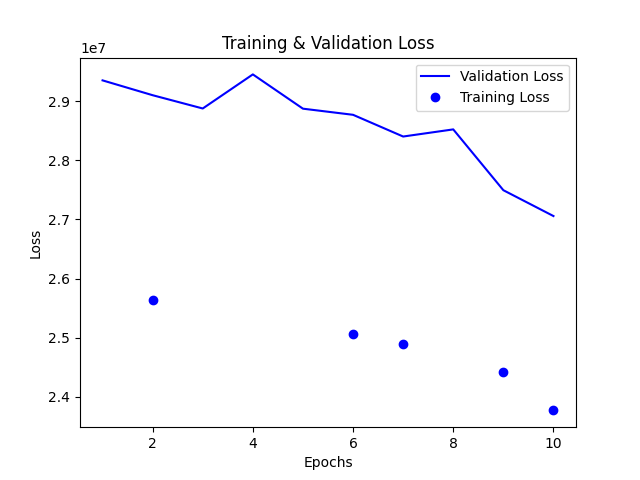
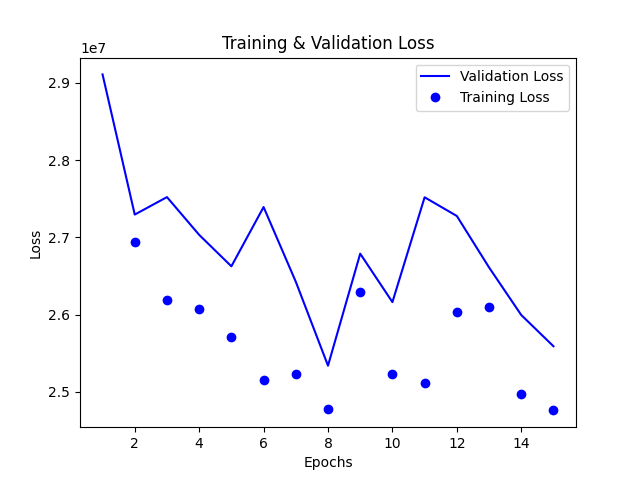
grid search for epochs max

diff --git a/brahms_restore_ml/drnn/drnn.py b/brahms_restore_ml/drnn/drnn.py
@@ -167,9 +167,13 @@ def evaluate_source_sep(x_train_files, y1_train_files, y2_train_files,
     #                               show_shapes=True)
  
     pc_run_str = '' if pc_run else '_noPC'
-    if pc_run and (grid_search_iter is None):
+    # if pc_run and (grid_search_iter is None):
+    if pc_run:  # NEW - TRY TO WRITE MODELS IN SMALL GRID SEARCHES
         #  Can't for imperative models
         model.save(recent_model_path)
+
+        if (grid_search_iter is not None) and recent_model_path.endswith(str(combos)):
+            pc_run_str += ('_' + str(grid_search_iter) + 'of' + str(combos))
 
         # print('History Dictionary Keys:', hist.history.keys())
         # 'val_loss', 'loss'
@@ -193,7 +197,7 @@ def evaluate_source_sep(x_train_files, y1_train_files, y2_train_files,
         return model
 
 
-def get_hp_configs(bare_config_path, pc_run=False, use_bv=False):
+def get_hp_configs(bare_config_path, pc_run=False, use_bv=False, small_gs=False):
     # import tensorflow as tf
 
     # IMPORTANT: 1st GS - GO FOR WIDE RANGE OF OPTIONS & LESS OPTIONS PER HP
@@ -206,20 +210,22 @@ def get_hp_configs(bare_config_path, pc_run=False, use_bv=False):
     # 11/19/20 for PC - too late, just run this over break - test SGD vs mini-batch SGD (memory conservative)
     # batch_size_optns = [1, 3] if pc_run else [4, 8]    # OOM on f35 and on PC, w/ restart script,
     # batch_size_optns = [1, 3] if pc_run else [8, 16]    # Fix TF mem management w/ multiprocessing - it lets go of mem after a model train now
-    batch_size_optns = [8] if pc_run else [8, 16]    # Fix TF mem management w/ multiprocessing - it lets go of mem after a model train now
-
+    # batch_size_optns = [4] if pc_run else [8, 16]    # Fix TF mem management w/ multiprocessing - it lets go of mem after a model train now
+    batch_size_optns = [4] if (pc_run and not small_gs) else ([8] if small_gs else [8, 16])    # Fix TF mem management w/ multiprocessing - it lets go of mem after a model train now
+    
     # # MEM BOUND TEST
     # batch_size_optns = [8] # - time
     # # batch_size_optns = [25]
 
     # batch_size_optns = [5] if pc_run else [8, 12] 
     # epochs total options 10, 50, 100, but keep low b/c can go more if neccesary later (early stop pattern = 5)
-    epochs_optns = [10]
+    epochs_optns = [20, 50, 100, 500] if use_bv or small_gs else [10]
     # loss_const total options 0 - 0.3 by steps of 0.05
     # loss_const_optns = [0.05, 0.2]
     # loss_const_optns = [0.05, 0.1] if pc_run else [0.05]    # first of two HPs dropping, PC GS time constraint
     # loss_const_optns = [0.05, 0.1] if pc_run else [0.05, 0.1]    # Multi-processing fix -> orig numbers
-    loss_const_optns = [0.1] if pc_run else [0.05, 0.1]    # Multi-processing fix -> orig numbers
+    # loss_const_optns = [0.1] if (pc_run and not small_gs) else ([0.1, 0.15] if small_gs else [0.05, 0.1])    # Multi-processing fix -> orig numbers
+    loss_const_optns = [0.1] if pc_run else [0.05, 0.1]     # Multi-processing fix -> orig numbers
 
     # Optimizers ... test out Adaptive Learning Rate Optimizers (RMSprop & Adam) Adam ~ RMSprop w/ momentum
     # Balance between gradient clipping and lr for exploding gradient
@@ -321,24 +327,29 @@ def get_hp_configs(bare_config_path, pc_run=False, use_bv=False):
     # # MEM BOUND TEST
     # dropout_optns = [(0.25,0.25)]
     # dropout_optns = [(0.0,0.0), (0.25,0.25)]    # For RNN only    IF NEEDED CAN GO DOWN TO 2 (conservative value)
-    dropout_optns = [(0.0,0.0), (0.5,0.5)]    # For RNN only    IF NEEDED CAN GO DOWN TO 2 (conservative value)
+    # dropout_optns = [(0.0,0.0), (0.5,0.5)]    # For RNN only    IF NEEDED CAN GO DOWN TO 2 (conservative value)
+    dropout_optns = [(0.0,0.0)] if use_bv or small_gs else [(0.0,0.0), (0.5,0.5)]    # For RNN only    IF NEEDED CAN GO DOWN TO 2 (conservative value)
     # # MEM BOUND TEST
     # scale_optns = [True]
-    scale_optns = [False, True]
+    # scale_optns = [False, True]
+    scale_optns = [True] if use_bv else ([False] if small_gs else [False, True])
     # # MEM BOUND TEST
     # rnn_skip_optns = [True]
     # rnn_skip_optns = [False, True]
-    rnn_skip_optns = [False] if use_bv else [False, True]
+    # rnn_skip_optns = [False] if use_bv or small_gs else [False, True]
+    rnn_skip_optns = [False] if use_bv else ([True] if small_gs else [False, True])
     bias_rnn_optns = [True]     # False
     bias_dense_optns = [True]   # False
     # HP range test - only True
     # # MEM BOUND TEST
     # bidir_optns = [True]
     # bidir_optns = [False, True]
-    bidir_optns =  [False] if use_bv else [False, True]
+    # bidir_optns =  [False] if use_bv or small_gs else [False, True]
+    bidir_optns =  [False] if use_bv else ([True] if small_gs else [False, True])
     # # MEM BOUND TEST
     # bn_optns = [True]  
-    bn_optns = [False, True]                    # For Dense only
+    bn_optns = [False] if small_gs else [False, True]                    # For Dense only
+    # bn_optns = [False] if use_bv else [False, True]               
     # # MEM BOUND TEST
     # rnn_optns = ['RNN']
     rnn_optns = ['RNN']
@@ -352,6 +363,9 @@ def get_hp_configs(bare_config_path, pc_run=False, use_bv=False):
         if use_bv:
             with open(bare_config_path + 'hp_arch_config_bvs.json') as hp_file:
                 bare_config_optns = json.load(hp_file)['archs']
+        elif small_gs:
+            with open(bare_config_path + 'hp_arch_config_final_no_pc_long.json') as hp_file:
+                bare_config_optns = [json.load(hp_file)['archs'][0]]    # 0th small enough for pc
         else:
             with open(bare_config_path + 'hp_arch_config_final.json') as hp_file:
                 bare_config_optns = json.load(hp_file)['archs']
@@ -404,7 +418,8 @@ def grid_search(x_train_files, y1_train_files, y2_train_files,
                 train_configs, arch_config_optns,
                 gsres_path, early_stop_pat=3, pc_run=False, 
                 gs_id='', restart=False, dataset2=False,
-                tuned_a430hz=False, use_basis_vectors=False):
+                tuned_a430hz=False, use_basis_vectors=False,
+                save_model_path=None):  # NEW
 
     # IMPORTANT to take advantage of what's known in test data to minimize factors
     # Factors: batchsize, epochs, loss_const, optimizers, gradient clipping,
@@ -475,6 +490,10 @@ def grid_search(x_train_files, y1_train_files, y2_train_files,
                                 'optimizer:', opt_name, 'clipvalue:', clip_val, 'learn_rate:', lr, 
                                 '\narch_config', arch_config, '\n')
 
+                            if save_model_path is not None: # NEW - write out models, all epochs
+                                save_model_path += ('_' + str(gs_iter) + 'of' + str(combos))
+                                early_stop_pat = epochs
+
                             send_end, recv_end = multiprocessing.Pipe()
                             # Multi-processing hack - make TF let go of mem after a model creation & training
                             process_train = multiprocessing.Process(target=evaluate_source_sep, args=(
@@ -487,7 +506,8 @@ def grid_search(x_train_files, y1_train_files, y2_train_files,
                                                                     opt_name, clip_val, lr,
                                                                     early_stop_pat,
                                                                     epsilon,
-                                                                    arch_config, None, pc_run,
+                                                                    # arch_config, None, pc_run,
+                                                                    arch_config, save_model_path, pc_run,  # NEW - write models
                                                                     # t_mean, t_std,
                                                                     gs_iter,
                                                                     gsres_path,

diff --git a/restore_with_drnn.py b/restore_with_drnn.py
@@ -23,11 +23,12 @@ def run_top_gs_result(num, best_config,
     # # Temp test for LSTM -> until can grid search
     # train_batch_size = 3 if train_batch_size < 3 else train_batch_size
     # TEMP - until F35 back up, make managable for PC
-    train_batch_size = 3
+    train_batch_size = 4
     # # TEMP - make what PC can actually handle (3072 run, but definitely 2048)
     # train_batch_size = 6
     train_loss_const = best_config['gamma']
     train_epochs = best_config['epochs']
+    # train_epochs = 15 # TEMP - optimize learning
     train_opt_name = best_config['optimizer']
     train_opt_clipval = None if (best_config['clip value'] == -1) else best_config['clip value']
     train_opt_lr = best_config['learning rate']
@@ -124,34 +125,40 @@ def main():
     # Differentiate PC GS from F35 GS
     # dmged_piano_artificial_noise_mix = True if pc_run else False
     dmged_piano_artificial_noise_mix = False    # TEMP while F35 down
-    dmged_piano_only = True
+    dmged_piano_only = False    # Promising w/ BVs
     test_on_synthetic = False
     # wdw_size = PIANO_WDW_SIZE
     data_path = 'brahms_restore_ml/drnn/drnn_data/'
     arch_config_path = 'brahms_restore_ml/drnn/config/'
-    gs_output_path = 'brahms_restore_ml/drnn/output_grid_search/'           # best results      
-    # gs_output_path = 'brahms_restore_ml/drnn/output_grid_search_pc_wb/'           # PC
+    gs_output_path = 'brahms_restore_ml/drnn/output_grid_search/'           # for use w/ grid search mode    
+    # gs_output_path = 'brahms_restore_ml/drnn/output_grid_search_pc_wb/'     # PC
     # gs_output_path = 'brahms_restore_ml/drnn/output_grid_search_lstm/'    # F35
-    # gs_output_path = 'brahms_restore_ml/drnn/output_grid_search_wb/'        # best results      
+    # gs_output_path = 'brahms_restore_ml/drnn/output_grid_search_wb/'        # best results   
+    # gs_output_path = 'brahms_restore_ml/drnn/output_grid_search_bvs/'       # bvs     
+    # gs_output_path = 'brahms_restore_ml/drnn/output_grid_search_bvs_2/'       # bvs 2   
     recent_model_path = 'brahms_restore_ml/drnn/recent_model'
     infer_output_path = 'brahms_restore_ml/drnn/output_restore/'
     brahms_path = 'brahms.wav'
 
-    # To run best model configs, data_from_numpy == True
-    do_curr_best, curr_best_combos, curr_best_done_on_pc = False, '3072', False
+    # To run best model configs, data_from_numpy == True & mode == train
+    do_curr_best, curr_best_combos, curr_best_done_on_pc = False, '12', True
     # # F35 LSTM
     # top_result_nums = [72, 128, 24, 176, 8, 192, 88, 112]
-    # F35 WB
-    top_result_nums = [1568] # temp - do 1 run # [1488, 1568, 149, 1496, 1680, 86, 151, 152]
+    # # F35 WB
+    # top_result_nums = [1568] # temp - do 1 run # [1488, 1568, 149, 1496, 1680, 86, 151, 152]
     # # PC WB
     # top_result_nums = [997, 1184, 1312, 1310, 1311, 1736]
+    # # BVS Architectures
+    # top_result_nums = [6] # 13, 20, 6, 10, 23]
+    # BVS Architectures #2
+    top_result_nums = [10]
     top_result_paths = [gs_output_path + 'result_' + str(x) + '_of_' + curr_best_combos +
                         ('.txt' if curr_best_done_on_pc else '_noPC.txt') for x in top_result_nums]
     # NEW
     output_file_addon = ''
     data_from_numpy = True
-    tuned_a430hz = True
-    basis_vector_features = True
+    tuned_a430hz = False # may not be helpful, as of now does A=436Hz by default
+    basis_vector_features = False
     if tuned_a430hz:
         recent_model_path += '_a436hz' # tune_temp '_a430hz'
         output_file_addon += '_a436hz' # tune_temp '_a430hz'
@@ -161,6 +168,8 @@ def main():
     if dmged_piano_only:
         recent_model_path += '_dmgedp'
         output_file_addon += '_dmgedp'
+    # NEW - for small grid searches only
+    gs_write_model = True
 
     # EMPERICALLY DERIVED HPs
     # Note: FROM PO-SEN PAPER - about loss_const
@@ -183,7 +192,8 @@ def main():
                           use_basis_vectors=basis_vector_features)
     else:
         train_configs, arch_config_optns = get_hp_configs(arch_config_path, pc_run=pc_run, 
-                                                          use_bv=basis_vector_features)
+                                                          use_bv=basis_vector_features,
+                                                          small_gs=gs_write_model)
         # print('First arch config optn after return:', arch_config_optns[0])
 
         if data_from_numpy:
@@ -330,8 +340,8 @@ def main():
                     best_config = json.loads(gs_result_file.readline())
                     # Temp test for LSTM -> until can grid search
                     # # TEMP - until F35 back up, make managable for PC
-                    if (len(best_config['layers']) < 4) or (len(best_config['layers']) == 4 and best_config['layers'][0]['type'] == 'Dense'):
-                        run_top_gs_result(num, best_config, 
+                    # if (len(best_config['layers']) < 4) or (len(best_config['layers']) == 4 and best_config['layers'][0]['type'] == 'Dense'):
+                    run_top_gs_result(num, best_config, 
                     # TRAIN_MEAN, TRAIN_STD, 
                                     x_train_files, y1_train_files, y2_train_files,
                                     x_val_files, y1_val_files, y2_val_files, num_train, num_val, train_feat, train_seq,
@@ -563,7 +573,8 @@ def main():
                         restart=restart,
                         dataset2=dmged_piano_artificial_noise_mix,
                         tuned_a430hz=tuned_a430hz, 
-                        use_basis_vectors=basis_vector_features)
+                        use_basis_vectors=basis_vector_features,
+                        save_model_path=recent_model_path if gs_write_model else None) # NEW - for small grid searchse
 
 
 if __name__ == '__main__':

diff --git a/hp_variance.py b/hp_variance.py
@@ -16,7 +16,12 @@ def show_most_varied_hps(combos, grid_search_results_path, val_loss=False, pc=Fa
 
     # One-hot, each var is bool (1,0)
     # Unchanged HPs: nrn divisor
-    if combos != 2048:
+    if combos == 24:
+        hps = [#'SmallBS', 
+            'LowDenseLayers', 'MedDenseLayers', 'HighDenseLayers',
+            'Scale', 'RnnDropout', 'BN']#, 
+            # 'LowLossConst', 'Adam', 'ClipValNormalLR']
+    elif combos != 2048:
         hps = ['SmallBS',
             'LowRNNLayers',
             'DenseFirst', 'TanHInFirst',
@@ -56,6 +61,10 @@ def show_most_varied_hps(combos, grid_search_results_path, val_loss=False, pc=Fa
                             hp_config['layers'][0]['type'] == 'Dense')
                     ) else 0
             dense_first = 1 if (hp_config['layers'][0]['type'] == 'Dense') else 0
+            if combos == 24:
+                low_dense = 1 if (len(hp_config['layers']) == 3) else 0
+                med_dense = 1 if (len(hp_config['layers']) == 4) else 0
+                high_dense = 1 if (len(hp_config['layers']) == 5) else 0
             scale = 1 if (hp_config['scale']) else 0
             res_cntn = 1 if (hp_config['rnn_res_cntn']) else 0
             bidir = 1 if (hp_config['bidir']) else 0
@@ -67,7 +76,13 @@ def show_most_varied_hps(combos, grid_search_results_path, val_loss=False, pc=Fa
                 low_loss_const = 1 if (hp_config['gamma'] == 0.05) else 0
             adam = 1 if (hp_config['optimizer'] == 'Adam') else 0
             clip_val_default_lr = 1 if (hp_config['clip value'] == 10) else 0
-            if combos == 2048:
+            if combos == 24:
+                vl_hp_combos_df.loc[file_id] = [#small_bs, 
+                                                low_dense, med_dense, high_dense,
+                                                scale,
+                                                rnn_dropout, bn]#, low_loss_const,
+                                                # adam, clip_val_default_lr] 
+            elif combos == 2048:
                 vl_hp_combos_df.loc[file_id] = [small_bs, low_rnn,
                                                 dense_first,
                                                 scale, res_cntn, bidir,
@@ -131,10 +146,10 @@ def show_most_varied_hps(combos, grid_search_results_path, val_loss=False, pc=Fa
 
 
 def main():
-    combos = 2048
-    grid_search_results_path = 'brahms_restore_ml/drnn/output_grid_search_pc_wb/'
+    combos = 3072
+    grid_search_results_path = 'brahms_restore_ml/drnn/output_grid_search_wb/'
     do_val_loss = True
-    pc = True
+    pc = False
 
     show_most_varied_hps(combos, grid_search_results_path, do_val_loss, pc)
 

diff --git a/top_gs_result.py b/top_gs_result.py
@@ -146,20 +146,24 @@ def main():
     # F35 wb (rnn) - 3072 combos
     # F35 (lstm) - 192 combos
     # PC wb (rnn) - 2048 combos
-    num_gs_iters = 192
-    pc = False
+    # PC bvs (rnn) - 24 combos
+    num_gs_iters = 24
+    pc = True
 
     if num_gs_iters == 3072:
-        grid_search_results_path = 'drnn/output_grid_search_wb/'
+        grid_search_results_path = 'brahms_restore_ml/drnn/output_grid_search_wb/'
         within_vl, within_l = 6.5, 0.25
     elif num_gs_iters == 2048:
-        grid_search_results_path = 'drnn/output_grid_search_pc_wb/'
+        grid_search_results_path = 'brahms_restore_ml/drnn/output_grid_search_pc_wb/'
         within_vl, within_l = 0.15, 0.05   
     elif num_gs_iters == 192:
-        grid_search_results_path = 'drnn/output_grid_search_lstm/'
+        grid_search_results_path = 'brahms_restore_ml/drnn/output_grid_search_lstm/'
+        within_vl, within_l = 0.7, 0.6
+    elif num_gs_iters == 24:
+        grid_search_results_path = 'brahms_restore_ml/drnn/output_grid_search_bvs/'
         within_vl, within_l = 0.7, 0.6
     else:
-        grid_search_results_path = 'drnn/output_grid_search/'
+        grid_search_results_path = 'brahms_restore_ml/drnn/output_grid_search/'
         within_vl, within_l = 0.1, 0.1
 
     # # top10perc_vl_files, top10perc_l_files = [], []
@@ -179,11 +183,11 @@ def main():
     min_vl_files, min_vl_values = files_close_to_min(within_vl, min_val_loss, grid_search_results_path, num_gs_iters, val_loss=True, pc=pc)
     min_l_files, min_l_values = files_close_to_min(within_l, min_loss, grid_search_results_path, num_gs_iters, pc=pc)
 
-    with open('drnn/top_gs_results_vl_' + str(num_gs_iters) + '.txt', 'w') as fp:
+    with open('brahms_restore_ml/drnn/top_gs_results_vl_' + str(num_gs_iters) + '.txt', 'w') as fp:
         for i, file_num in enumerate(min_vl_files):
             line_string = str(file_num) + ', ' + str(min_vl_values[i]) + '\n'
             fp.write(line_string)
-    with open('drnn/top_gs_results_l_' + str(num_gs_iters) + '.txt', 'w') as fp:
+    with open('brahms_restore_ml/drnn/top_gs_results_l_' + str(num_gs_iters) + '.txt', 'w') as fp:
         for i, file_num in enumerate(min_l_files):
             line_string = str(file_num) + ', ' + str(min_l_values[i]) + '\n'
             fp.write(line_string)

diff --git a/brahms_restore_ml/drnn/model.py b/brahms_restore_ml/drnn/model.py
@@ -194,7 +194,11 @@ def make_model(features, sequences, name='Model', epsilon=10 ** (-10),
                 else:
                     if (use_bv and 
                             prev_layer_type is not None and prev_layer_type == 'RNN'):
-                        x = Concatenate(axis=-2) ([bv_input, x])
+                        if config['scale']:
+                            stdized_bv_input = Standardize(t_mean, t_std) (bv_input)
+                            x = Concatenate(axis=-2) ([stdized_bv_input, x])
+                        else:
+                            x = Concatenate(axis=-2) ([bv_input, x])
 
                     x = TimeDistributed(Dense(features // layer_config['nrn_div'],
                                             activation=layer_config['act'], 
